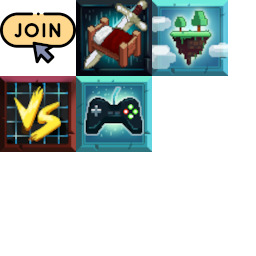
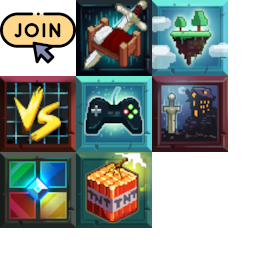
Added new games and fixed some bugs

Changed region(s): [[0.0, 0.5938, 0.5938, 0.9062], [0.5938, 0.2812, 0.9062, 0.5938]]

diff --git a/src/main/kotlin/com/qwertz/quickjoin/gui/QuickJoinGui.kt b/src/main/kotlin/com/qwertz/quickjoin/gui/QuickJoinGui.kt
@@ -43,6 +43,8 @@ class QuickJoinGui : GuiScreen() {
         this.buttonList.add(GuiButton(3, this.width / 2 - 37, this.height / 2 + 4, 76,20,"§e$color$bold" + "ARCADE"))
         this.buttonList.add(GuiButton(4, this.width / 2 + 88, this.height / 2 - 52, 76,20,"§6$color$bold" + "SKYBLOCK"))
         this.buttonList.add(GuiButton(8, this.width / 2 - 162, this.height / 2 + 4, 76,20,"§3$color$bold" + "MURDER"))
+        this.buttonList.add(GuiButton(9, this.width / 2 + 88, this.height / 2 + 4, 76,20,"§5$color$bold" + "CLASSIC"))
+        this.buttonList.add(GuiButton(10, this.width / 2 - 37, this.height / 2 + 32, 76,20,"§4$color$bold" + "TNT"))
         this.buttonList.add(GuiButton(5, this.width / 2 - 162, this.height / 2 - 52, 76,20,"§d$color$bold" + "PIT"))
         this.buttonList.add(GuiButton(6, this.width / 2 - 162, this.height / 2 - 80, 76,20,"§7$color$bold" + "LIMBO"))
         this.buttonList.add(GuiButton(7, this.width / 2 + 88, this.height / 2 - 80, 76,20,"§f$color$bold" + "HOUSING"))
@@ -99,6 +101,13 @@ class QuickJoinGui : GuiScreen() {
 
             12 -> {
                 GuiUtils.closeScreen()
+            }
+
+            9 -> {
+                GuiUtils.displayScreen(ClassicGui())
+            }
+            10 -> {
+                GuiUtils.displayScreen(TNTGui())
             }
         }
     }
@@ -1185,6 +1194,140 @@ class MurderGui : GuiScreen() {
                 GuiUtils.closeScreen()
             }
             4 -> {
+                GuiUtils.displayScreen(QuickJoinGui())
+            }
+        }
+    }
+}
+class ClassicGui : GuiScreen() {
+
+    private val bold = CheckConfig().BoldCheck()
+    private val color = CheckConfig().ColorCheck()
+    val resourceLocation = ResourceLocation("quickjoin", "gui/Background.png")
+    private val backgroundTexture = ResourceLocation("quickjoin", "gui/Background.png")
+    override fun initGui() {
+        this.buttonList.clear()
+        this.buttonList.add(GuiButton(0, this.width / 2 - 213, this.height / 2 - 24, 76, 20, "§b$color$bold" + "VAMPIREZ"))
+        this.buttonList.add(GuiButton(1, this.width / 2 - 114, this.height / 2 - 24, 76, 20, "§b$color$bold" + "TKR"))
+        this.buttonList.add(GuiButton(2, this.width / 2 + 38, this.height / 2 - 24, 76, 20, "§b$color$bold" + "WALLS"))
+        this.buttonList.add(GuiButton(3, this.width / 2 + 137, this.height / 2 - 24, 76, 20, "§b$color$bold" + "PAINTBALL"))
+        this.buttonList.add(GuiButton(4, this.width / 2 - 162, this.height / 2 + 4, 76, 20, "§3$color$bold" + "ARENA 1v1"))
+        this.buttonList.add(GuiButton(5, this.width / 2 - 37, this.height / 2 + 4, 76, 20, "§3$color$bold" + "ARENA 2v2"))
+        this.buttonList.add(GuiButton(6, this.width / 2 + 88, this.height / 2 + 4, 76, 20, "§3$color$bold" + "ARENA 4v4"))
+        this.buttonList.add(GuiButton(7, this.width / 2 - 114, this.height / 2 + 32, 76, 20, "§6$color$bold" + "QUAKE SOLO"))
+        this.buttonList.add(GuiButton(8, this.width / 2 + 38, this.height / 2 + 32, 76, 20, "§6$color$bold" + "QUAKE TEAMS"))
+
+        this.buttonList.add(GuiButton(9, this.width / 2 - 25, this.height / 2 + 100, 50, 20, "§c$color$bold" + "BACK"))
+    }
+
+    override fun drawScreen(mouseX: Int, mouseY: Int, partialTicks: Float) {
+        drawRect(0, 0, this.width, this.height, 0x80000000.toInt())
+        super.drawScreen(mouseX, mouseY, partialTicks)
+        mc.textureManager.bindTexture(Icon)
+        drawTexturedModalRect(this.width/2-38, this.height/2-130, 0, 152, 76, 76)
+        this.drawCenteredString(this.fontRendererObj, "CLASSIC GAMES", this.width / 2, this.height / 2 - 50, 0xFFFFFF)
+
+    }
+
+    override fun actionPerformed(button: GuiButton) {
+        when (button.id) {
+            0 -> {
+                Minecraft.getMinecraft().thePlayer.sendChatMessage("/play vampirez")
+                GuiUtils.closeScreen()
+            }
+
+            1 -> {
+                Minecraft.getMinecraft().thePlayer.sendChatMessage("/play tkr")
+                GuiUtils.closeScreen()
+            }
+            2 -> {
+                Minecraft.getMinecraft().thePlayer.sendChatMessage("/play walls")
+                GuiUtils.closeScreen()
+            }
+
+            3 -> {
+                Minecraft.getMinecraft().thePlayer.sendChatMessage("/play paintball")
+                GuiUtils.closeScreen()
+            }
+            4 -> {
+                Minecraft.getMinecraft().thePlayer.sendChatMessage("/play arena_1v1")
+                GuiUtils.closeScreen()
+            }
+
+            5 -> {
+                Minecraft.getMinecraft().thePlayer.sendChatMessage("/play arena_2v2")
+                GuiUtils.closeScreen()
+            }
+            6 -> {
+                Minecraft.getMinecraft().thePlayer.sendChatMessage("/play arena_4v4")
+                GuiUtils.closeScreen()
+            }
+
+            7 -> {
+                Minecraft.getMinecraft().thePlayer.sendChatMessage("/play quake_solo")
+                GuiUtils.closeScreen()
+            }
+            8 -> {
+                Minecraft.getMinecraft().thePlayer.sendChatMessage("/play quake_teams")
+                GuiUtils.closeScreen()
+            }
+            9 -> {
+                GuiUtils.displayScreen(QuickJoinGui())
+            }
+        }
+    }
+}
+class TNTGui : GuiScreen() {
+
+    private val bold = CheckConfig().BoldCheck()
+    private val color = CheckConfig().ColorCheck()
+    val resourceLocation = ResourceLocation("quickjoin", "gui/Background.png")
+    private val backgroundTexture = ResourceLocation("quickjoin", "gui/Background.png")
+    override fun initGui() {
+        this.buttonList.clear()
+        this.buttonList.add(GuiButton(0, this.width / 2 - 213, this.height / 2 - 24, 76, 20, "§b$color$bold" + "TNT RUN"))
+        this.buttonList.add(GuiButton(1, this.width / 2 - 114, this.height / 2 - 24, 76, 20, "§b$color$bold" + "TNT TAG"))
+        this.buttonList.add(GuiButton(2, this.width / 2 + 38, this.height / 2 - 24, 76, 20, "§b$color$bold" + "TNT WIZARDS"))
+        this.buttonList.add(GuiButton(3, this.width / 2 + 137, this.height / 2 - 24, 76, 20, "§b$color$bold" + "PVP RUN"))
+        this.buttonList.add(GuiButton(4, this.width / 2 - 38, this.height / 2 + 4, 76, 20, "§b$color$bold" + "BOW SPLEEF"))
+
+        this.buttonList.add(GuiButton(5, this.width / 2 - 25, this.height / 2 + 100, 50, 20, "§c$color$bold" + "BACK"))
+    }
+
+    override fun drawScreen(mouseX: Int, mouseY: Int, partialTicks: Float) {
+        drawRect(0, 0, this.width, this.height, 0x80000000.toInt())
+        super.drawScreen(mouseX, mouseY, partialTicks)
+        mc.textureManager.bindTexture(Icon)
+        drawTexturedModalRect(this.width/2-38, this.height/2-130, 76, 152, 76, 76)
+        this.drawCenteredString(this.fontRendererObj, "TNT", this.width / 2, this.height / 2 - 50, 0xFFFFFF)
+
+    }
+
+    override fun actionPerformed(button: GuiButton) {
+        when (button.id) {
+            0 -> {
+                Minecraft.getMinecraft().thePlayer.sendChatMessage("/play tnt_tntrun")
+                GuiUtils.closeScreen()
+            }
+
+            1 -> {
+                Minecraft.getMinecraft().thePlayer.sendChatMessage("/play tnt_tntag")
+                GuiUtils.closeScreen()
+            }
+            2 -> {
+                Minecraft.getMinecraft().thePlayer.sendChatMessage("/play tnt_capture")
+                GuiUtils.closeScreen()
+            }
+
+            3 -> {
+                Minecraft.getMinecraft().thePlayer.sendChatMessage("/play tnt_pvprun")
+                GuiUtils.closeScreen()
+            }
+            4 -> {
+                Minecraft.getMinecraft().thePlayer.sendChatMessage("/play tnt_bowspleef")
+                GuiUtils.closeScreen()
+            }
+            5 -> {
                 GuiUtils.displayScreen(QuickJoinGui())
             }
         }
